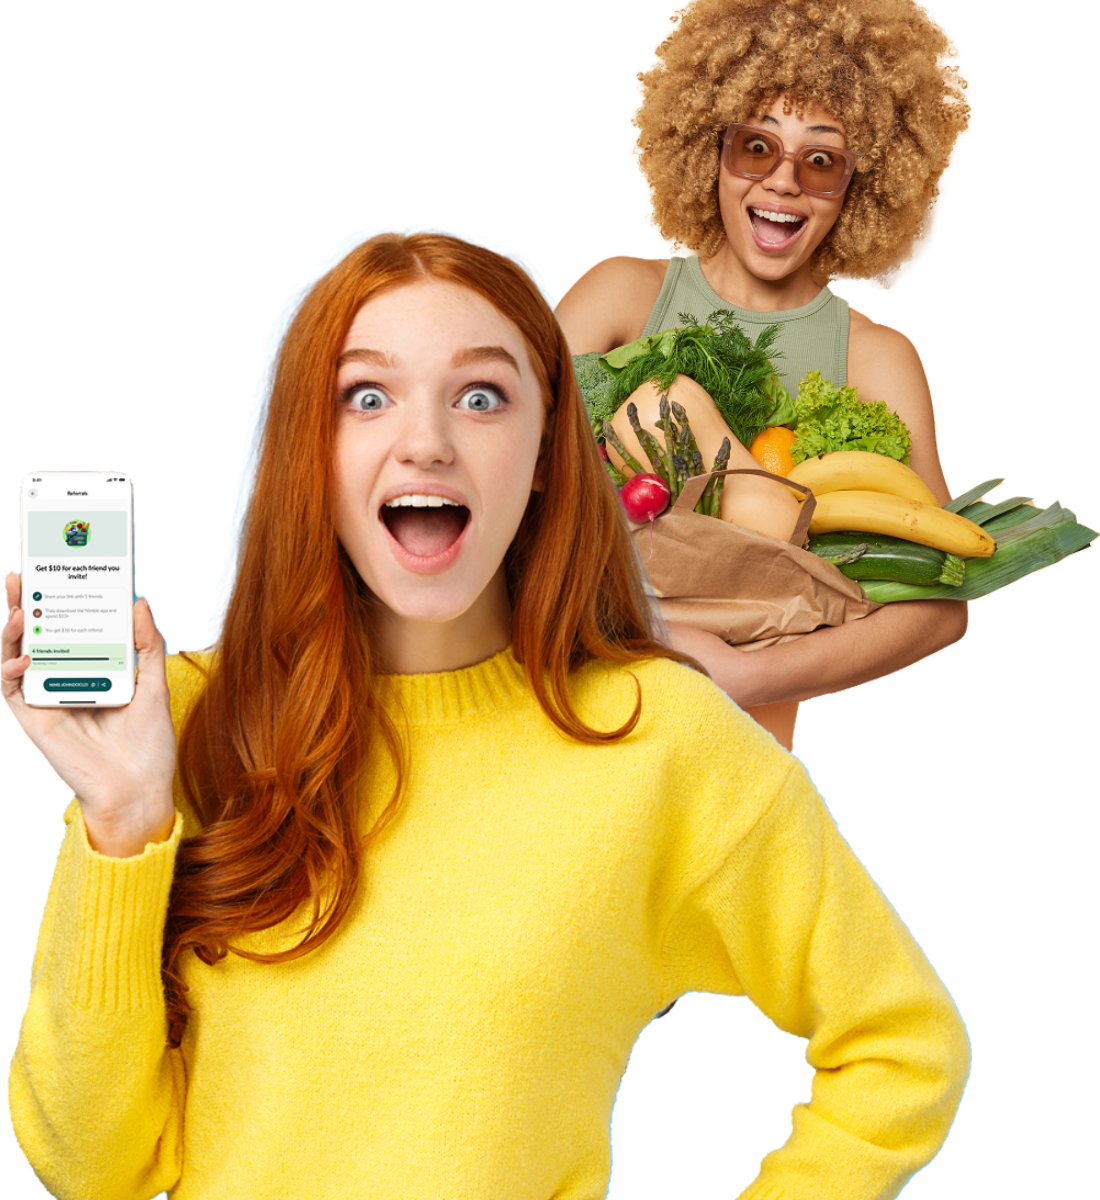
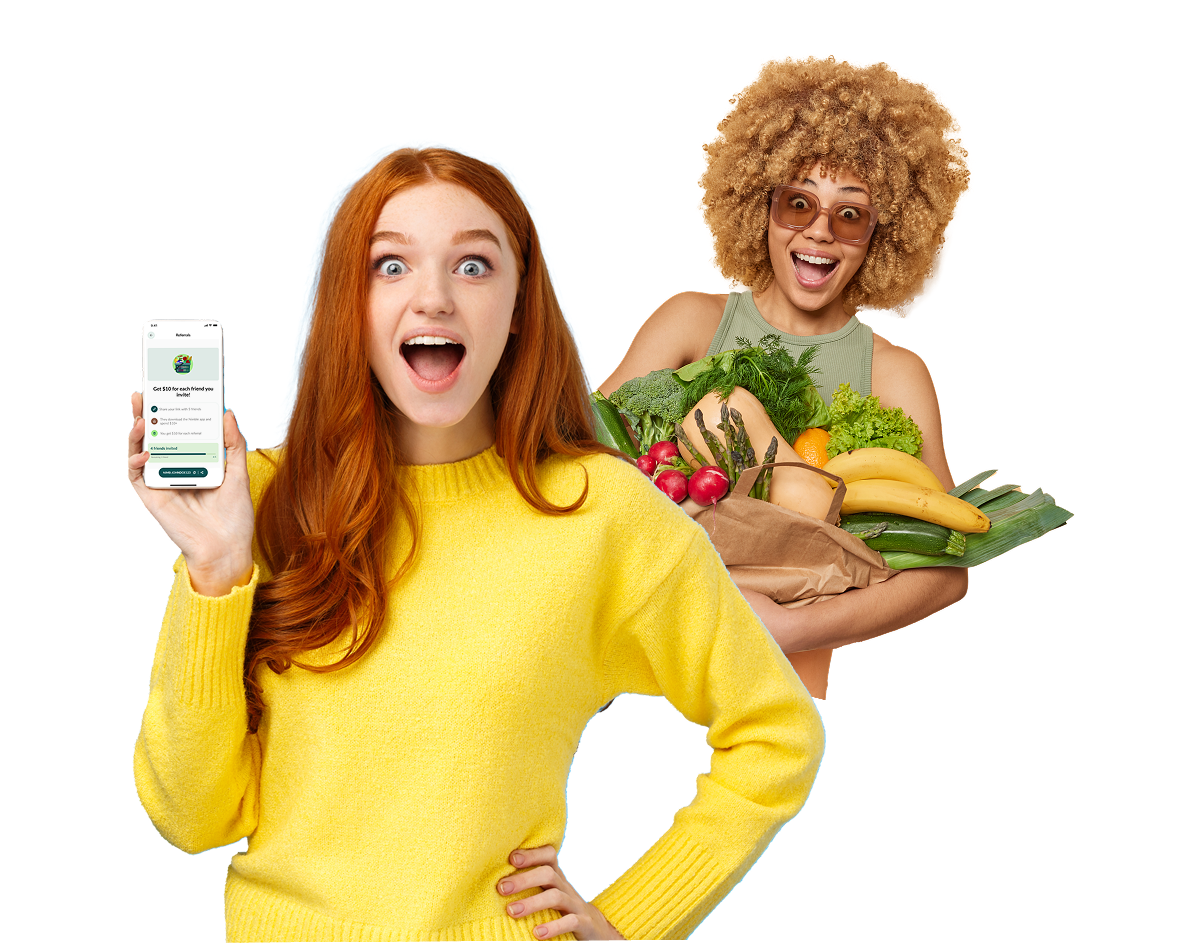
Changes

diff --git a/src/component/CarouselComponent.css b/src/component/CarouselComponent.css
@@ -54,101 +54,161 @@
 }
 
 .slide-content {
+  position: relative;
   display: flex;
-
+  flex-direction: row;
   justify-content: space-between;
-  width: 100%;
+  align-items: stretch;
   height: 100%;
-  border :5px dotted green;
-  flex-wrap: wrap; 
+  width: 100%;
+  /* border: 5px solid yellow; */
 }
+.left-side{
 
+  display: flex;
+  justify-content: flex-start;
+  flex-direction: column;
+  width: 70%;
+
+}
   .background-curve-0 {
   
   
     height: 100%;
-    width: 80%;
-    border :5px dotted red;
-    margin-top: 20px;
+    width: 70%;
+
+
     z-index: 0;
       pointer-events: none;
 
     }
     .slide-image-wrapper-0 {
-  margin-left: 7%;
+margin-left: 8%;
       position: absolute;
-      min-width: 100px;
-      height: 100%;  
-      border :5px dotted black;
-      z-index: 0; 
-  display: flex;
-    
-    }
+
+      display: flex;
+      flex-direction: row;
+      align-self: flex-start;
+
+      width: auto;
+object-fit: cover;
   
+      z-index: 0; 
+
+     overflow: hidden;
+
+    }
+    .slide-image-wrapper-1 {
+      margin-left: 8%;
+      position: absolute;
+    
+      display: flex;
+      flex-direction: row;
+   
+      height: 100%; 
+  
+    
+      z-index: 0; 
+    
+      overflow: visible;
+
+    }
+    .slide-image-wrapper-0 img {
+      width: 88%;
+      height: 88%;
+      object-fit: contain; 
+      display: block;
+      margin-top: -2%;
+      max-width: 100%;
+      max-height: 100%;
+      transition: all 0.3s ease;
+      
+    }
+    .slide-image-wrapper-1 img {
+height:max-content ;
+      object-fit: cover;
+      display: flex;
+      align-self: flex-end;
+width: clamp(50%, 20vw, 85%);;
+      max-width: 100%;
+      max-height: 100%;
+      transition: all 0.3s ease;
+
+    }
+    
 .background-curve-1 {
 
+  height: 100%;
+  width: clamp(50%, 45vw, 85%);
 
-height: 100%;
-display: flex;
-align-self: flex-end;
-border :5px solid red;
 
-z-index: 1;
-  pointer-events: none;
+    z-index: 0;
+      pointer-events: none;
 }
-.slide-image-wrapper-1 {
-  display: flex;
 
-  margin-left: 210px;
-  position: absolute;
-  height: 100%;  
-
-  z-index: 2; 
-
-}
 .background-curve-2 {
 
-
   height: 100%;
+width: clamp(15%, 15vw, 85%);
 
-  border :5px solid red;
-  margin-left: -2%;
-  z-index: 1;
-    pointer-events: none;
+
+    z-index: 1;
+      pointer-events: none;
   }
   .slide-image-wrapper-2 {
-    display: flex;
-    width: 910px;
-    align-items: flex-end;      /* Align image to the top */
-    justify-content: flex-start;   
-    margin: 0;
-    
-
     position: absolute;
-    width: 50%; 
+    left: 0;
+    top: 0;
+  
+    width: 50%;              /* or adjust for curve size */
     height: 100%;
+  
+    display: flex;
+    align-items: flex-end;
+    justify-content: center;
+  
     z-index: 0;
-    border: 5px dotted black;
+    overflow: hidden;
+    pointer-events: none; 
 
-    overflow: hidden; 
   }
-.slide-text-outer {
+  .slide-image-wrapper-2 .slide-text-outer {
+    width: 100%;
+    height: 100%;
+    object-fit: cover;
+    display: block;
+    margin: 0;
+    /* border :5px solid green; */
+  }
+  
 
-  margin-top: 0;
-  position: relative;
 
-  z-index: 0;
-}
+.slide-text-0 {
 
-.slide-text {
-  flex: 1;
-  max-width: 400px;
+
   display: flex;
   flex-direction: column;
   justify-content: center;
-  border :5px solid green;
-}
+  margin-right: 14%;
 
+
+}
+.slide-text-1 {
+  display: flex;
+  flex-direction: column;
+  justify-content: center;
+  margin-right: 14%;
+ 
+
+}
+.slide-text-2 {
+  display: flex;
+  flex-direction: column;
+  justify-content: center;
+  margin-right: 14%;
+
+
+}
 
 
 .slide-text h2 {
@@ -213,67 +273,78 @@ z-index: 1;
 .dot.active {
   background-color: #004C45;
 }
-
-/* Responsive Layout */
 @media (max-width: 768px) {
   .slide-content {
     flex-direction: column;
-    padding: 1rem;
-    text-align: center;
-  }
-
-
-
-  .slide-text-outer {
-    width: 80%;
-    max-width: 300px;
-    height: auto;
-    margin: 1rem auto;
-  }
-
-  .slide-text {
-    margin: 1.5rem 0 0;
-    text-align: center;
-    margin-right: 0;
-  }
-
-  .slide-text h2 {
-    font-size: 2rem;
-  }
-
-  .download-btn {
-    background-color: #A4EC8A;
-    color: #074F51;
-  }
-
-  .carousel-wrapper {
-    padding: 2rem 0;
-    margin: 1rem 0;
-  }
-
-  .carousel-btn {
-    display: none !important;
-  }
-
-  .carousel-slide {
-    width: 90vw;
-    max-width: 343px;
-    height: auto;
-    margin: 0 auto;
-    padding: 1rem 1.5rem 2rem;
-  }
-
-  .carousel-dots {
-    margin-top: 0.5rem;
-  }
-  .slide-1 .slide-text-outer {
-    height: auto;
-    width: 100%;
-    object-fit: contain;
-  }
-
-  .slide-1 .slide-image-wrapper {
-    height: auto;
     align-items: center;
+    text-align: center;
+    padding: 1rem;
+    position: relative;
+  }
+  .slide-image-wrapper-0 img {
+    width: 100%;
+    height: auto;
+    margin-top: 0;
+    object-fit: contain; /* or 'cover' if you prefer */
+  }
+
+  .slide-image-wrapper-0 {
+    position: relative; /* removes overlay issues on small screens */
+    width: 100%;
+    height: auto;
+    justify-content: center;
+    align-items: center;
+    display: flex;
+  }
+  
+}
+@media (max-width: 1024px) {
+  .background-curve-0 {
+    width: 90%;
+  }
+}
+
+@media (max-width: 768px) {
+  .background-curve-0 {
+    width: 100%;
+    margin-top: 10px;
+  }
+  
+}
+@media (max-width: 768px) {
+  .slide-image-wrapper-1 {
+    position: relative;
+    width: 100%;
+    height: auto;
+    margin-left: 0;
+    justify-content: center;
+    align-items: center;
+    display: flex;
+  }
+
+  .slide-image-wrapper-1 img {
+    width: 100%;
+    height: auto;
+    margin-top: 0;
+    object-fit: contain;
+    display: block;
+  }
+
+  .slide-text-1 {
+    margin-right: 0;
+    margin-top: 1rem;
+    padding: 0 1rem;
+    width: 100%;
+    justify-content: center;
+    align-items: center;
+    text-align: center;
+  }
+
+  .slide-text-1 h2 {
+    font-size: 1.6rem;
+  }
+
+  .slide-text-1 p {
+    font-size: 1rem;
   }
 }

diff --git a/src/component/CarouselComponent.js b/src/component/CarouselComponent.js
@@ -20,6 +20,7 @@ const CarouselComponent = ({
             >
 
               <div className="slide-content">
+                <div className="left-side">
               {(
                 <img
                   src={slide.vector1}
@@ -31,8 +32,8 @@ const CarouselComponent = ({
 <div className={`slide-image-wrapper slide-image-wrapper-${index}`}>
                     <img src={slide.image} className="slide-text-outer" alt="Hero" />
                   </div>
-
-                  <div className="slide-text">
+</div>
+                  <div className={`slide-text slide-text-${index}`}>
                     <h2>{slide.headline}</h2>
                     <p>{slide.subtext}</p>
                     <button className="download-btn">Download Now</button>
